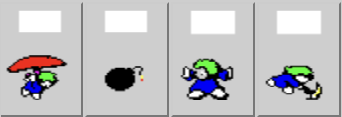
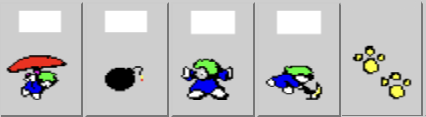
cambios varios

diff --git a/src/main/java/poo/Lemmings/Lemming.java b/src/main/java/poo/Lemmings/Lemming.java
@@ -19,14 +19,20 @@ public class Lemming extends ObjetoMovible {
     private static final int ANCHO_LEMMING = 20;
     private static final int ALTO_LEMMING = 20;
     private static final int UMBRAL_CAIDA_FATAL_PIXELES = 6 * Nivel.BLOQUE_ALTO;
+    private static final BufferedImage spriteLemming;
+    static {
+        try {
+            spriteLemming = ImageIO.read(Objects.requireNonNull(Lemming.class.getClassLoader().getResourceAsStream("imagenes/Lemmings/animacionesLemming.png")));
+        } catch (IOException e) {
+            throw new RuntimeException(e);
+        }
+    }
 
     private static List<Lemming> todosLosLemmings = new ArrayList<>();
     private EstadoLemming estadoActual;
     private boolean direccionDerecha = true;
-    private int habilidad;
     protected Nivel nivelActual;
     private int pixelsCaidos = 0;
-    private static BufferedImage spriteLemming;
     private int columnaActual = 2;
     private int filaActual = 0;
 
@@ -36,32 +42,26 @@ public class Lemming extends ObjetoMovible {
         this.estadoActual = EstadoLemming.CAYENDO;
         this.velocidadX = VELOCIDAD_BASE;
         this.velocidadY = 0;
-        try {
-            spriteLemming = ImageIO.read(Objects.requireNonNull(getClass().getClassLoader().getResourceAsStream("imagenes/Lemmings/animacionesLemming.png")));
-        } catch (IOException e) {
-            throw new RuntimeException(e);
-        }
     }
 
+    public static void limpiarLemmings(){todosLosLemmings.clear();}
     public void setEstado(EstadoLemming nuevoEstado) {
         this.estadoActual = nuevoEstado;
     }
-
     public EstadoLemming getEstado() {
         return estadoActual;
     }
+    public EstadoLemming getEstadoActual() { return estadoActual;}
+    public static List<Lemming> getTodosLosLemmings() { return todosLosLemmings;}
 
     @Override
     public void mover() {
         boolean haySuelo = haySueloDebajo();
         columnaActual ++ ;
-        if (estadoActual == EstadoLemming.MURIENDO || estadoActual == EstadoLemming.SALVADO) {
-        }
 
         if (estadoActual == EstadoLemming.EXCAVANDO){
             velocidadX = 0;
             //nivelActual.destruirBloque(x, y);
-
         }
 
         if (estadoActual == EstadoLemming.PLANEANDO){
@@ -72,8 +72,12 @@ public class Lemming extends ObjetoMovible {
             velocidadX = 0;
         }
 
+        if (estadoActual == EstadoLemming.EXPLOTANDO){
+
+        }
+
         if (!haySuelo && estadoActual == EstadoLemming.CAMINANDO) {
-            setEstado(EstadoLemming.CAYENDO); // ¡Empieza a caer!
+            setEstado(EstadoLemming.CAYENDO);
             pixelsCaidos = 0; // Reinicia el contador de caída
         }
 
@@ -110,7 +114,6 @@ public class Lemming extends ObjetoMovible {
                 PanelHabilidades.salvarLemming();
             }
         }
-
     }
 
     @Override
@@ -123,20 +126,18 @@ public class Lemming extends ObjetoMovible {
                 filaActual = 0;
                 break;
             case CAYENDO:
-                if (columnaActual >= 8) {
-                    columnaActual = 3;
-                }
-                filaActual = 3; // Fila de caída
+                columnaActual = 3;
+                filaActual = 22; // Fila de caída
                 break;
             case PLANEANDO:
-                columnaActual = 4;
+                columnaActual = 6;
                 filaActual = 97; // Fila de paraguas
                 break;
             case EXCAVANDO:
                 if (columnaActual >= 12) {
                     columnaActual = 2;
                 }
-                filaActual = 250;
+                filaActual = 249;
                 break;
             case EXPLOTANDO:
                 if (columnaActual >= 16) {
@@ -144,26 +145,22 @@ public class Lemming extends ObjetoMovible {
                     // - Ponerlo en un estado "muerto" o "inactivo"
                     columnaActual = 15; // Se queda en el último frame de la explosión
                 }
-                filaActual = 8; // Fila de explosión
+                filaActual = 169; // Fila de explosión
                 break;
             case BLOQUEANDO:
                 if (columnaActual >= 16){
                     columnaActual = 3;
                 }
                 filaActual = 149;
+                break;
         }
-        int sx = columnaActual * 16;
+        int sx = columnaActual * 16 + 2;
         int dx = this.x;
         int dy = this.y;
         g.drawImage(spriteLemming,
                 dx, dy, dx + 24, dy + 24, // Coordenadas de destino en pantalla (esquina superior izq y esquina inferior der)
                 sx, filaActual, sx + 12, filaActual + 12, // Coordenadas de origen en el sprite sheet (esquina superior izq y esquina inferior der)
                 null);
-    }
-
-
-    public static List<Lemming> getTodosLosLemmings() {
-        return todosLosLemmings;
     }
 
     public void cambiarDireccion(){
@@ -206,10 +203,6 @@ public class Lemming extends ObjetoMovible {
         return lemmingRect.intersects(salidaRect);
     }
 
-    public static void limpiarLemmings(){
-        todosLosLemmings.clear();
-    }
-
     public void aplicarHabilidadLemming(PanelHabilidades.TipoHabilidad habilidad) {
             switch (habilidad) {
                 case PARAGUAS:
@@ -229,9 +222,5 @@ public class Lemming extends ObjetoMovible {
 
     public static void agregarLemming(Lemming nuevoLemming) {
         todosLosLemmings.add(nuevoLemming);
-    }
-
-    public EstadoLemming getEstadoActual() {
-        return estadoActual;
     }
 }

diff --git a/src/main/java/poo/Lemmings/JuegoLemmings.java b/src/main/java/poo/Lemmings/JuegoLemmings.java
@@ -9,11 +9,10 @@ import java.util.Iterator;
 
 public class JuegoLemmings extends JGame {
 
-    public enum EstadoJuego {INICIO, JUGANDO, PERDIO, GANA, FIN}
+    public enum EstadoJuego {INICIO, JUGANDO, PAUSA, PERDIO, GANA, FIN}
 
     private static EstadoJuego estadoJuego = EstadoJuego.INICIO;
     private DibujarEstado dibujadorEstados;
-    private short nivelesCompletados = 0;
     private Nivel nivelActual;
     private PanelHabilidades panel;
     private final String[] nombresNiveles = {"nivel1.txt", "nivel2.txt", "nivel3.txt"};
@@ -21,7 +20,7 @@ public class JuegoLemmings extends JGame {
     private int lemmingsGenerados = 0;
     private long ultimoTiempoAccion;
     Mouse mouse = this.getMouse();
-    boolean sePresionoElMouse = false;
+    static boolean sePresionoElMouse = false;
 
     Temporizador temporizador;
 
@@ -41,7 +40,6 @@ public class JuegoLemmings extends JGame {
 
     @Override
     public void gameUpdate(double v) {
-
         if (estadoJuego == EstadoJuego.JUGANDO) {
             temporizador.controlarTemporizador();
             crearLemmings();
@@ -49,10 +47,11 @@ public class JuegoLemmings extends JGame {
             controlarHabilidades();
             controlarVictoria();
             controlarDerrota();
-            sePresionoElMouse = mouse.isLeftButtonPressed();
-
         }
-
+        if (estadoJuego == EstadoJuego.PAUSA){
+            controlarHabilidades();
+        }
+        sePresionoElMouse = mouse.isLeftButtonPressed();
     }
 
     @Override
@@ -60,7 +59,7 @@ public class JuegoLemmings extends JGame {
         if (estadoJuego == EstadoJuego.INICIO) {
             dibujadorEstados.estadoInicio(g);
         }
-        if (estadoJuego == EstadoJuego.JUGANDO) {
+        if (estadoJuego == EstadoJuego.JUGANDO || estadoJuego == EstadoJuego.PAUSA) {
             nivelActual.dibujar(g);
             for (Lemming lemming : Lemming.getTodosLosLemmings()) {
                 lemming.dibujar(g);
@@ -123,33 +122,32 @@ public class JuegoLemmings extends JGame {
     }
 
     public void controlarHabilidades() {
-        if (panel.getHabilidadSeleccionada() != PanelHabilidades.TipoHabilidad.NINGUNA) {
-            boolean mouseApretado = mouse.isLeftButtonPressed();
-            if (mouseApretado && !sePresionoElMouse) {
-                int mouseX = mouse.getX();
-                int mouseY = mouse.getY();
-                Lemming lemmingClickeado = encontrarLemmingEn(mouseX, mouseY);
-                if (lemmingClickeado != null) {
-                    if (panel.getCantidadHabilidad(panel.getHabilidadSeleccionada()) > 0) {
-                        if (lemmingClickeado.getEstadoActual() == Lemming.EstadoLemming.CAMINANDO || lemmingClickeado.getEstadoActual() == Lemming.EstadoLemming.CAYENDO) {
-                            lemmingClickeado.aplicarHabilidadLemming(panel.getHabilidadSeleccionada());
-                            panel.decrementarHabilidad(panel.getHabilidadSeleccionada());
-                        }
+        int mouseX = mouse.getX();
+        int mouseY = mouse.getY();
+        boolean mouseApretado = mouse.isLeftButtonPressed();
+        if (mouseApretado && !sePresionoElMouse) {
+            Lemming lemmingClickeado = encontrarLemmingEn(mouseX, mouseY);
+            if (lemmingClickeado != null) {
+                if (panel.getCantidadHabilidad(panel.getHabilidadSeleccionada()) > 0) {
+                    if (lemmingClickeado.getEstadoActual() == Lemming.EstadoLemming.CAMINANDO || lemmingClickeado.getEstadoActual() == Lemming.EstadoLemming.CAYENDO) {
+                        lemmingClickeado.aplicarHabilidadLemming(panel.getHabilidadSeleccionada());
+                        panel.decrementarHabilidad(panel.getHabilidadSeleccionada());
                     }
                 }
             }
         }
+
     }
 
     public void controlarVictoria() {
         if (panel.getLemmingsSalvados() == panel.getLemmingsASalvar()) {
-            nivelesCompletados++;
+            dibujadorEstados.completarNivel();
             estadoJuego = EstadoJuego.GANA;
         }
     }
 
     public void controlarDerrota() {
-        if (temporizador.getTiempoRestante() <= 0/*|| panel.getLemmingsSalvados()< panel.getLemmingsASalvar()*/) {
+        if (temporizador.getTiempoRestante() <= 0 || panel.getLemmingsASalvar() - panel.getLemmingsSalvados() > panel.getTotalLemmings()) {
             estadoJuego = EstadoJuego.PERDIO;
         }
     }
@@ -169,12 +167,15 @@ public class JuegoLemmings extends JGame {
         return super.getMouse(); // Asegúrate de llamar al getMouse() de JGame
     }
 
-    public void setNivelSeleccionado(int nivel){
-        nivelSeleccionado = nivel;
-    }
+    public static EstadoJuego getEstadoJuego(){return estadoJuego;}
+    public static boolean getSePresionoElMouse(){return sePresionoElMouse;}
+    public void setNivelSeleccionado(int nivel){nivelSeleccionado = nivel;}
+    public static void setPausa(){estadoJuego = EstadoJuego.PAUSA;}
+    public static void reaunudarJuego(){estadoJuego = EstadoJuego.JUGANDO;}
+    public static void reiniciarJuego(){estadoJuego = EstadoJuego.INICIO;}
 
     public void subirNivel(){
-        nivelSeleccionado ++;
+        nivelSeleccionado = (nivelSeleccionado + 1) % 3;
     }
 
     public void finDelJuego(){

diff --git a/src/main/java/poo/Lemmings/DibujarEstado.java b/src/main/java/poo/Lemmings/DibujarEstado.java
@@ -7,15 +7,12 @@ import java.awt.*;
 public class DibujarEstado{
 
     private JuegoLemmings juegoLemmings;
-
     private short nivelesCompletados = 0;
 
 
     public DibujarEstado(JuegoLemmings juegoLemmings) {
         this.juegoLemmings = juegoLemmings;
     }
-
-
 
     public void estadoInicio(Graphics2D g) {
         Mouse mouse = juegoLemmings.getMouse();
@@ -101,6 +98,7 @@ public class DibujarEstado{
                 juegoLemmings.seleccionarNivel();
             } else if (mouseX >= 0 && mouseX <= 350 && mouseY >= 400 && mouseY <= 600) {
                 juegoLemmings.seleccionarNivel();
+                nivelesCompletados --;
             }
         }
     }
@@ -114,12 +112,16 @@ public class DibujarEstado{
         g.drawString("Has completado el juego!", 240, 200);
         g.drawString("Niveles completados: " + nivelesCompletados + " / 3", 160, 300);
         g.drawString("Jugar de nuevo", 50, 500);
-        if (mouse.isLeftButtonPressed()) { // BUTTON1 es el botón izquierdo del ratón
+        if (mouse.isLeftButtonPressed()) {
             int mouseX = mouse.getX();
             int mouseY = mouse.getY();
             if (mouseX >= 0 && mouseX <= 350  && mouseY >= 400 && mouseY <= 600){
-                juegoLemmings.seleccionarNivel();
+                JuegoLemmings.reiniciarJuego();
             }
         }
+    }
+
+    public void completarNivel(){
+        nivelesCompletados ++;
     }
 }

diff --git a/src/main/java/poo/Lemmings/Nivel.java b/src/main/java/poo/Lemmings/Nivel.java
@@ -141,23 +141,7 @@ public class Nivel extends ObjetoGrafico {
             g.drawImage(imagenSalida, salidaX, salidaY, null);
     }
 
-    public boolean destruirBloque(int pixelX, int pixelY) {
-        int tileX = pixelX / BLOQUE_ANCHO;
-        int tileY = pixelY / BLOQUE_ALTO;
 
-        // Verificar si las coordenadas de tile están dentro de los límites del mapa
-        if (tileY >= 0 && tileY < mapa.size()) {
-            List<Integer> fila = mapa.get(tileY);
-            if (fila != null && tileX >= 0 && tileX < fila.size()) {
-                // Solo destruir si es un bloque destructible
-                if (fila.get(tileX) == 1) { //1 para terreno destructible
-                    fila.set(tileX, 0); // Cambia el tipo de bloque a vacío (0)
-                    return true;
-                }
-            }
-        }
-        return false; // No se destruyó ningún bloque
-    }
 
     public int getTipoTile(int pixelX, int pixelY) {
         // Convierte las coordenadas de píxel a coordenadas de tile
